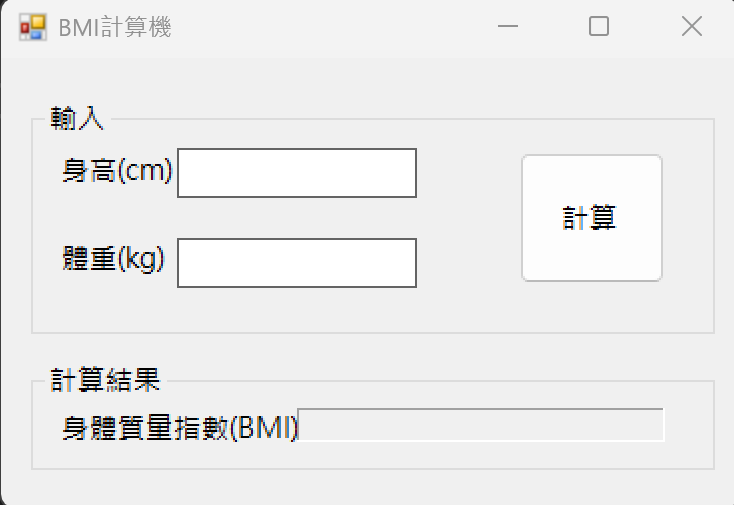
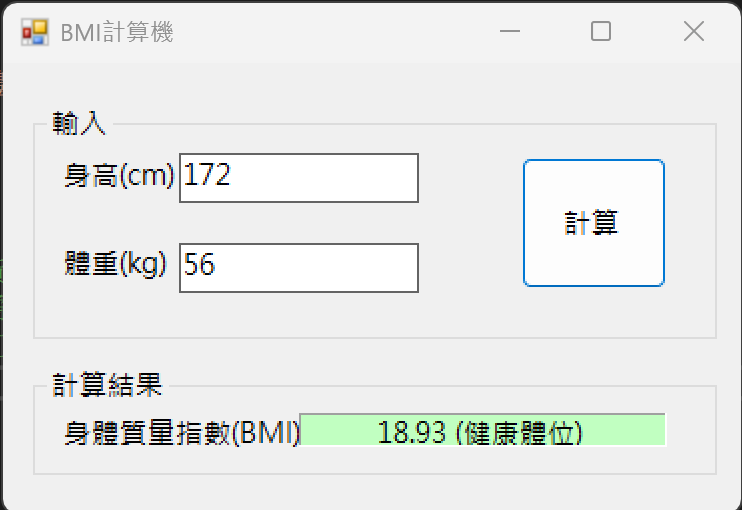
add color

diff --git a/BMI計算機/frmBMI.cs b/BMI計算機/frmBMI.cs
@@ -1,10 +1,24 @@
 using System;
+using System.Drawing; // 引入 System.Drawing 以使用 Color
 using System.Windows.Forms;
 
 namespace BMI計算機
 {
     public partial class frmBMI : Form
     {
+        // 簡報第一頁：陣列宣告
+        // 定義 BMI 結果描述陣列
+        string[] strResultList = { "體重過輕", "健康體位", "體位過重", "輕度肥胖", "中度肥胖", "重度肥胖" };
+        // 定義對應的顏色陣列
+        Color[] colorList = {
+            Color.FromArgb(173, 216, 230), // 淡淡藍
+            Color.FromArgb(193, 255, 193), // 淡淡綠
+            Color.FromArgb(255, 224, 178), // 淡淡橘黃
+            Color.FromArgb(255, 197, 148), // 淡淡粉橘
+            Color.FromArgb(255, 182, 193), // 淡淡粉紅
+            Color.FromArgb(230, 230, 250)  // 淡淡紫
+        };
+
         public frmBMI()
         {
             InitializeComponent();
@@ -12,14 +26,85 @@ namespace BMI計算機
 
         private void btnRun_Click(object sender, EventArgs e)
         {
-            //可以用"this.xxx"來抓我們要的原件
-            double height = double.Parse(txtHeight.Text) / 100;
-            double weight = double.Parse(txtWeight.Text);
-            // 計算BMI
-            double bmi = weight / (height * height);
+            // 宣告變數用於儲存解析後的數值
+            double height = 0;
+            double weight = 0;
 
-            // 顯示結果
-            lblResult.Text = $"{bmi:F2}";
+            // 驗證身高輸入
+            bool isHeightValid = double.TryParse(txtHeight.Text, out height);
+            if (isHeightValid)
+            {
+                if (height <= 0)
+                {
+                    MessageBox.Show("身高必須大於零。", "身高值錯誤", MessageBoxButtons.OK, MessageBoxIcon.Error);
+                    return; // 停止執行
+                }
+            }
+            else
+            {
+                MessageBox.Show("請輸入有效的身高數值。", "身高值錯誤", MessageBoxButtons.OK, MessageBoxIcon.Error);
+                return; // 停止執行
+            }
+
+            // 驗證體重輸入
+            bool isWeightValid = double.TryParse(txtWeight.Text, out weight);
+            if (isWeightValid)
+            {
+                if (weight <= 0)
+                {
+                    MessageBox.Show("體重必須大於零。", "體重值錯誤", MessageBoxButtons.OK, MessageBoxIcon.Error);
+                    return; // 停止執行
+                }
+            }
+            else
+            {
+                MessageBox.Show("請輸入有效的體重數值。", "體重值錯誤", MessageBoxButtons.OK, MessageBoxIcon.Error);
+                return; // 停止執行
+            }
+
+            // 計算 BMI (身高先除以 100 換算成公尺)
+            double bmi = weight / ((height / 100) * (height / 100));
+
+            // 簡報第二頁：判斷式
+            // 宣告變數用於儲存結果描述、顏色和陣列索引
+            string strResult = "";
+            Color colorResult = Color.Black;
+            int resultIndex = 0;
+
+            // 根據 BMI 值判斷所屬區間，並設定對應的陣列索引
+            if (bmi < 18.5)
+            {
+                resultIndex = 0; // 體重過輕
+            }
+            else if (bmi < 24)
+            {
+                resultIndex = 1; // 健康體位
+            }
+            else if (bmi < 27)
+            {
+                resultIndex = 2; // 體位過重
+            }
+            else if (bmi < 30)
+            {
+                resultIndex = 3; // 輕度肥胖
+            }
+            else if (bmi < 35)
+            {
+                resultIndex = 4; // 中度肥胖
+            }
+            else
+            {
+                resultIndex = 5; // 重度肥胖
+            }
+
+            // 根據索引從陣列中取出對應的描述文字和顏色
+            strResult = strResultList[resultIndex];
+            colorResult = colorList[resultIndex];
+
+            // 將 BMI 值 (格式化為兩位小數) 和描述文字顯示在 lblResult 上
+            lblResult.Text = $"{bmi:F2} ({strResult})";
+            // 將 lblResult 的背景顏色設定為對應的顏色
+            lblResult.BackColor = colorResult;
         }
     }
 }
